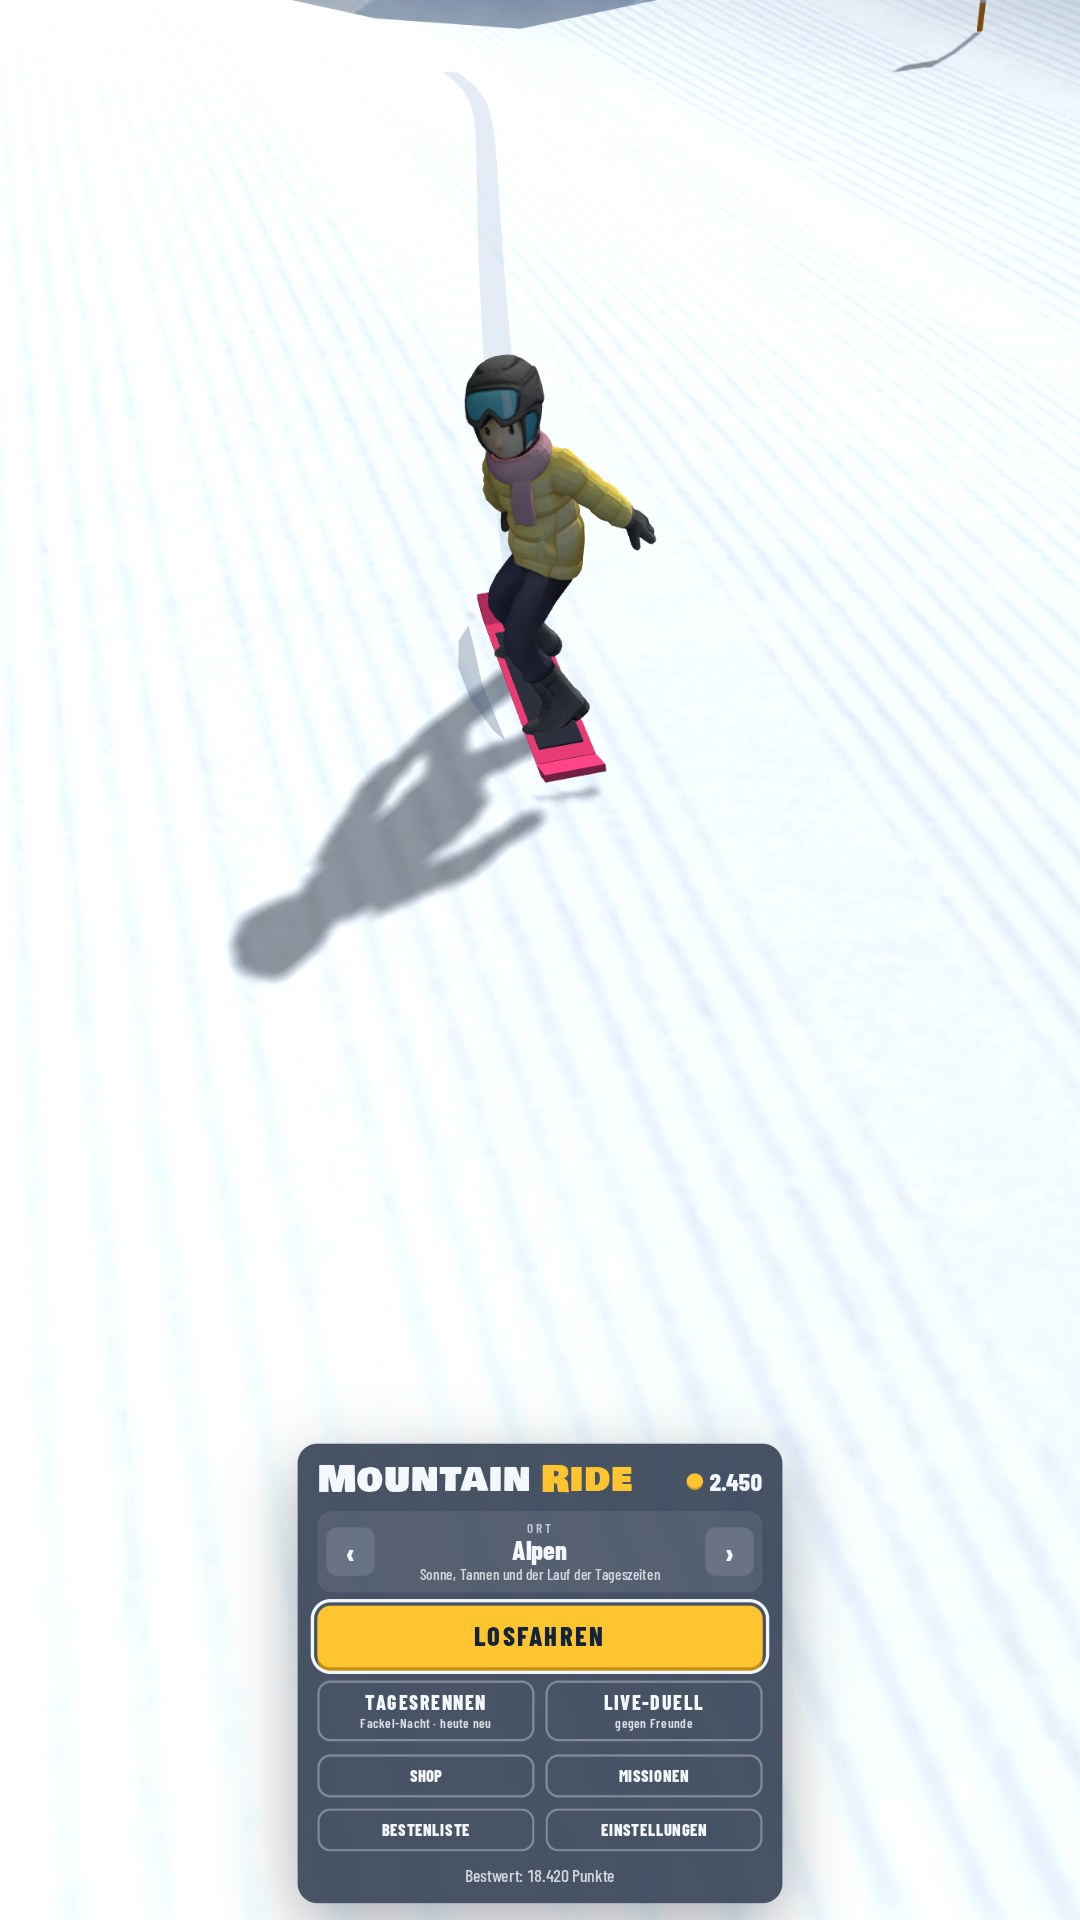
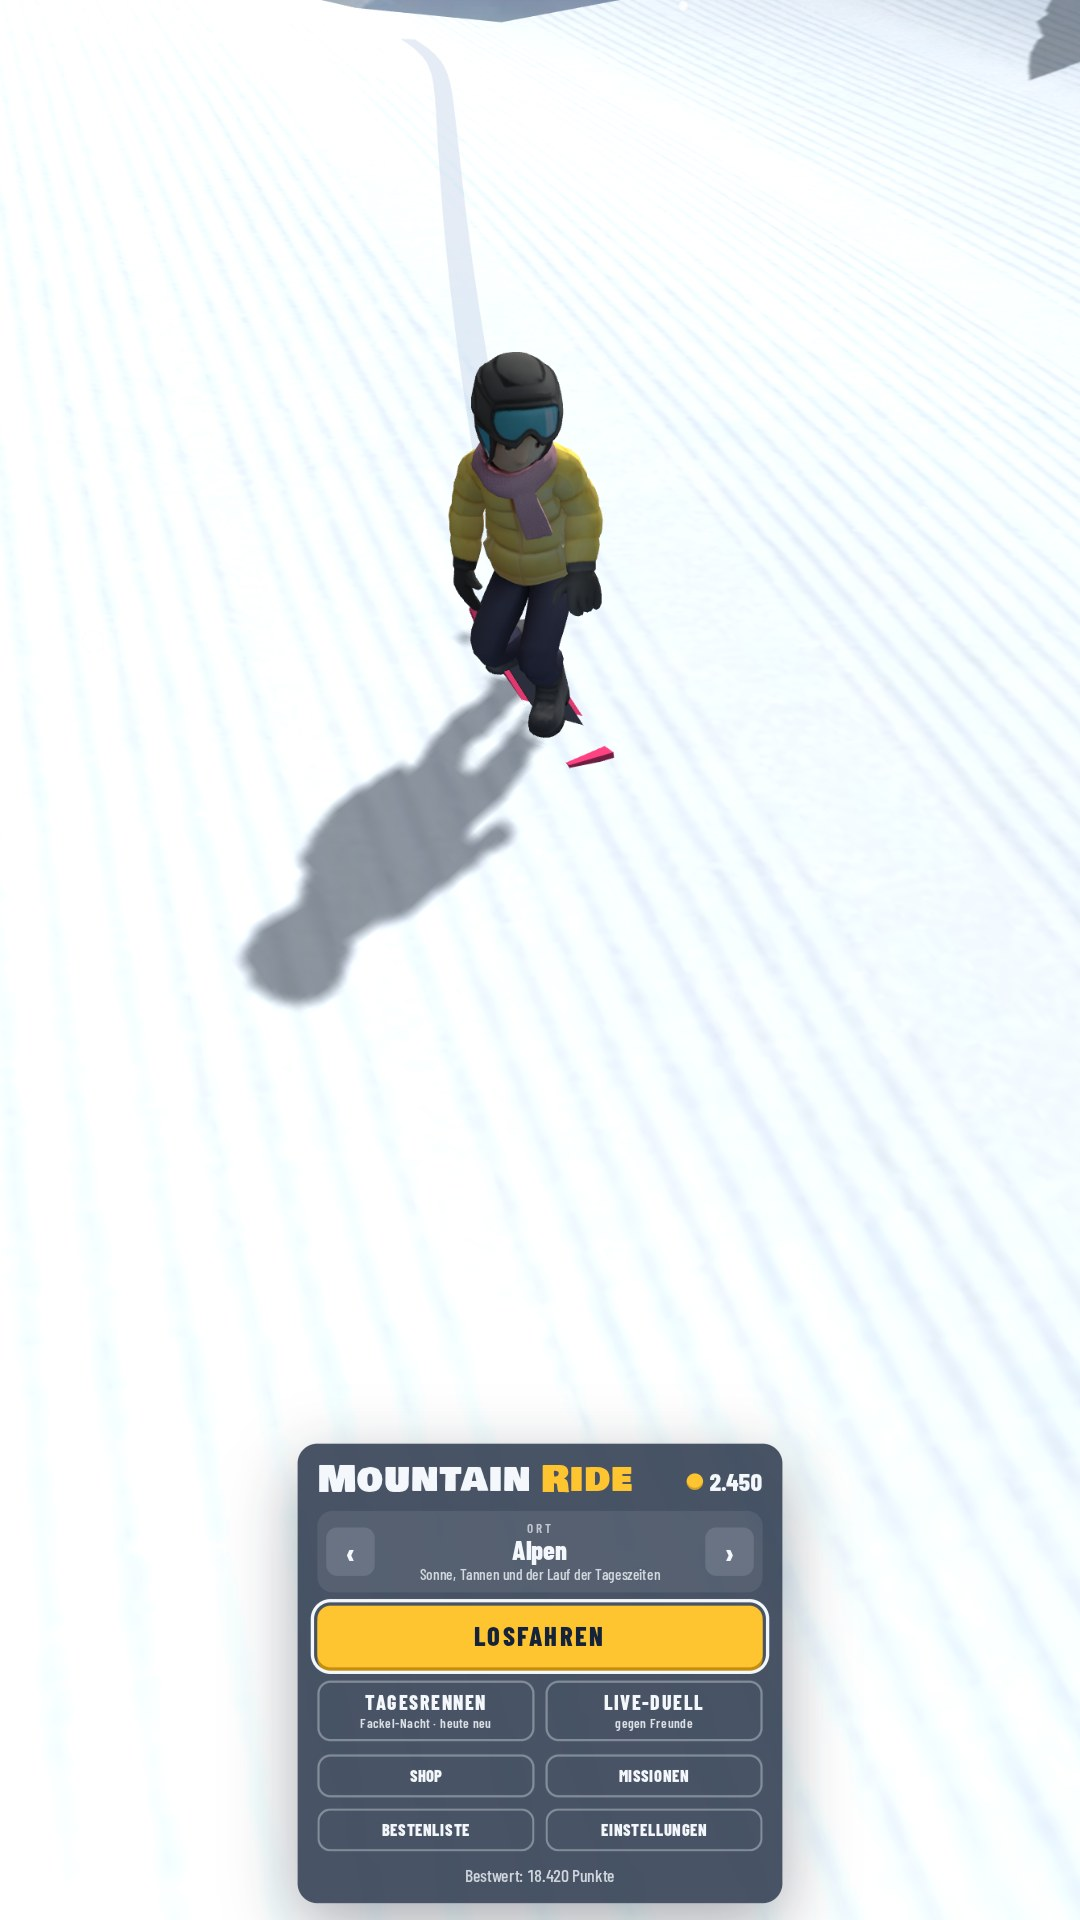
Store screenshots: new rider (German), skip the daily bonus window
Claude-Session: https://claude.ai/code/session_01K9avBE44h9jo1J6jcVak2J

Changed region(s): [[0.2139, 0.0, 0.6111, 0.5312], [0.9472, 0.0, 1.0, 0.0625], [0.8861, 0.0, 0.9167, 0.0312]]

diff --git a/tools/store-shots.js b/tools/store-shots.js
@@ -35,10 +35,13 @@ async function shoot(browser, lang, device) {
       localStorage.setItem('mountain-ride-wallet', '2450');
       localStorage.setItem('mountain-ride-best-3d', '18420');
       localStorage.setItem('mountain-ride-locs', JSON.stringify({ owned: ['alpen', 'wald', 'nacht', 'gletscher'], active: loc }));
+      // daily bonus already collected today, so its window does not cover the menu
+      const t = new Date(), day = `${t.getFullYear()}-${String(t.getMonth() + 1).padStart(2, '0')}-${String(t.getDate()).padStart(2, '0')}`;
+      localStorage.setItem('mountain-ride-dailyBonus', JSON.stringify({ last: day, streak: 1 }));
     }, [lang, loc]);
     const p = await ctx.newPage();
     p.on('pageerror', e => console.log(lang, device, 'ERR', e.message));
-    await p.goto(BASE + 'store.html'); await p.waitForTimeout(4000);
+    await p.goto(BASE + 'store.html'); await p.waitForTimeout(5500);   // the rider model (~0.7 MB) must be in
     return { p, ctx };
   };
   const ride = async (p, secs) => {
